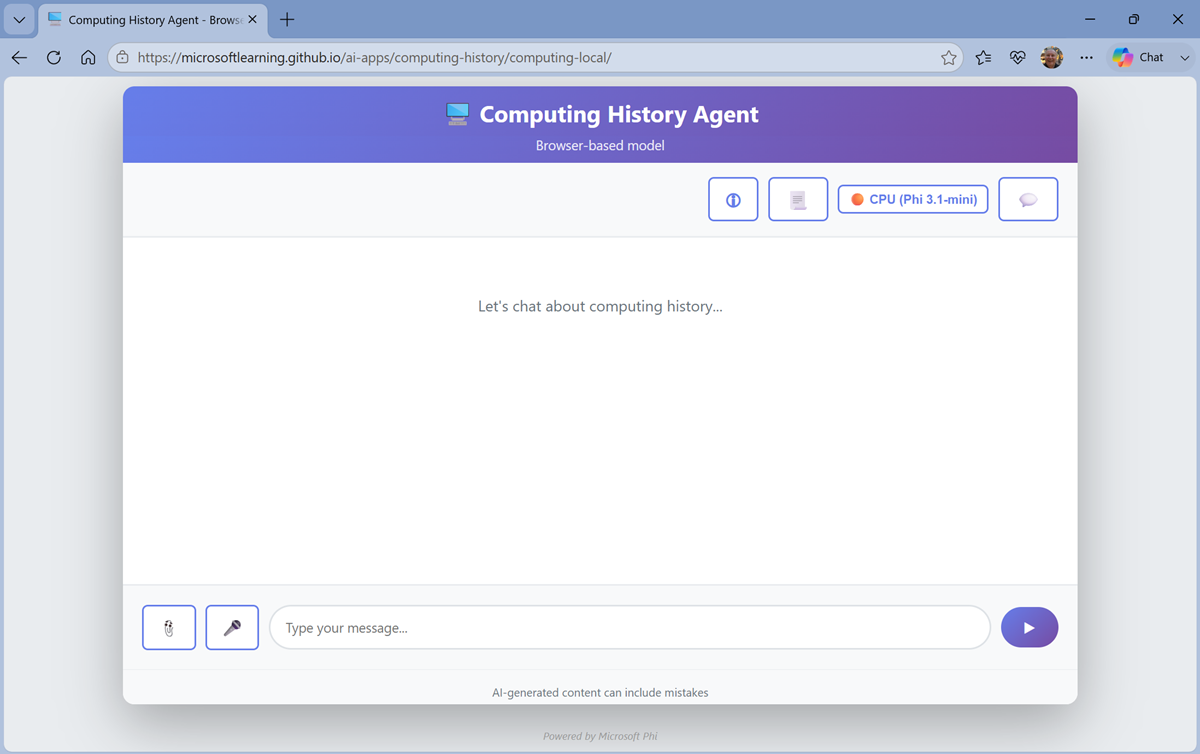
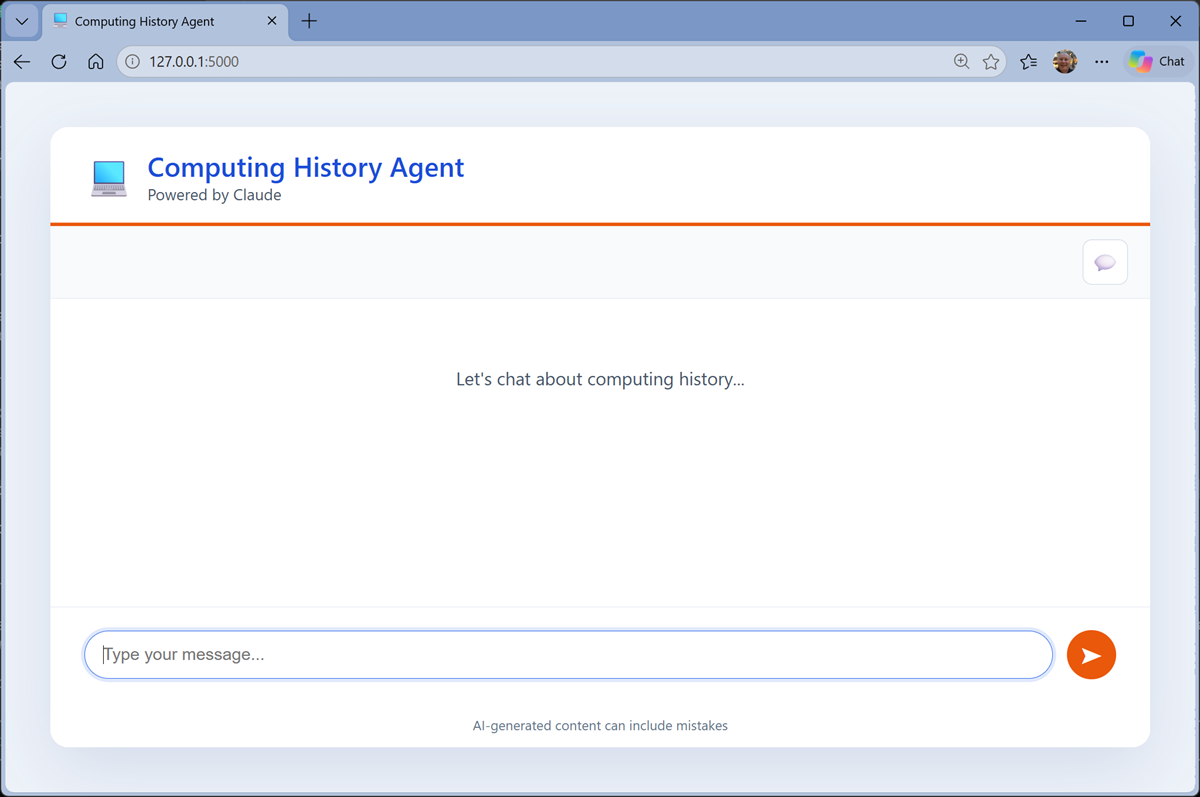
Updates

Changed region(s): [[0.0, 0.0, 1.0, 1.0], [0.37, 0.4576, 0.6167, 0.4881], [0.4008, 0.3966, 0.5858, 0.4271]]

diff --git a/Instructions/02-create-managed-claude-agent.md b/Instructions/02-create-managed-claude-agent.md
@@ -33,53 +33,56 @@ When you build an agent with the Messages API, your code owns the agent loop, th
 ## Create a managed agent in the Claude Console
 
 1. In a web browser, open the [Claude Console](https://platform.claude.com){:target="_blank"} at `https://platform.claude.com`, and sign in. If prompted, complete any setup steps - including adding credits to your account.
-1. In the navigation menu, find the **Managed Agents** page (look under **Build** if you can't see it).
-
-    > **Tip**: If you can't access Managed Agents, check whether it's available for your organization. It may need to be enabled by an organization admin.
 
 ### Create the agent
 
-1. On the **Managed Agents** page, create a new agent. If you're offered a choice of templates, choose to start from a blank agent (or describe your agent to the guided setup, if you prefer, and then review the settings it generates against the steps below).
-1. Set the agent's name to `computing-historian`.
-1. Select the model **Claude Haiku 5.5** (`claude-haiku-5-5`).
-1. In the **System prompt** (instructions) box, enter the following:
+1. In the navigation menu, in the **Agents** section, open the **Create** page.
+
+    A list of agent templates is shown
+
+1. Under the list of templates, select **start from a blank agent**, and enter the following description for the agent:
+
+    ```
+    A computing history agent that helps users with questions about key people, events, and technologies in the history of computing.
+    ```
+
+1. Review the agent configuration that is created, and then go ahead and create the agent.
+1. Create a new environment for tha agent, with unrestricted web search.
+1. Start a test session and test the agent with a suitable question, such as `Who was Grace Hopper, and why was her work on compilers so important??`.
+1. Stop the test session and specify that you want to call the agent from an application. The  exit the agent creation wizard. Your completed agent is opened in its own page.
+
+### Configure the agent
+
+1. In the page for your agent, select the model **Claude Haiku 5.5** (`claude-haiku-5-5`) and review the **System prompt**, modifying it if desired. As a minimum, it should provide guidance to the agent similar to this:
 
    ```
    You are an expert in the history of computing and AI. You only answer questions about significant people and events in the development of computing, and about notable vintage computers. Do not engage in conversations on any topic that is unrelated to computing history.
    ```
 
-1. In the agent's tools configuration, enable the **Web search** tool, and disable the other built-in tools (such as bash, file read/write/edit, and web fetch) - your agent only needs to search the web.
-1. Set the permission policy for the web search tool to **Always allow**, so the agent can use it without waiting for human approval.
+1. In the agent's tools configuration, set the **web_fetch** and **web_search** tool permissions to **Always allow**, and set the **Always deny** permission for all the other built-in tools (such as bash, file read/write/edit, and web fetch) - your agent only needs to search and retrieve information from the web.
 
     > **Note**: The agent toolset includes *server-hosted* tools such as bash and file operations that run in the session's container. You've turned off the ones this agent doesn't need - it's good practice to give an agent only the tools it needs.
 
-1. Save (create) the agent. Note the **agent ID** (it looks like `agent_...`) shown on the agent's page - you'll need it later.
+1. Save a new version of the agent with your changes.
+1. Start a new session in the environment that was created for by the wizard, and test the updated agent with a suitable prompt (such as `Tell me about Alan Turing.`).
 
-### Create an environment
+    > **Tip**: The session transcript shows every event in the session - including each tool call and its result, along with token usage. It's a useful way to see what the agent did and why.
 
-1. In the Console, find the **Environments** page (it's usually in the same area as Managed Agents) and create a new environment named `computing-historian-env`.
-1. Select **Cloud** as the environment type. For networking, select **Unrestricted** so that the agent's web search can reach the sites it needs.
+### View agents and environments
+
+1. View the **Agents** page, where your agent (and any others you've created) is listed. Note the **agent ID** (it looks like `agent_...`). You'll need this later.
+1. View the **Environments** page and find the cloud environment created for your agent.
 
     > **Note**: Unrestricted networking is fine for this learning exercise because the agent has no access to sensitive files or secrets. For a production agent, use *limited* networking and list only the hosts the agent needs.
 
-1. Save (create) the environment, and note its **environment ID** (it looks like `env_...`).
-
-### Test the agent in the Console
-
-1. Use the Console's option to start a **test session** with your agent and environment (for example, **Start session** on the agent's page).
-1. Enter the prompt `What was ENIAC?` and review the response.
-1. Follow up with `How does it compare with COLOSSUS?` - note that the session remembers the conversation, without you sending the history.
-1. Enter an off-topic prompt, like `What's the capital of Spain?`, to verify that the agent follows its instructions.
-1. Enter `Find a vintage computer store near Seattle` (*or your local city!*), and review the response. Expand the agent's activity in the session view to see that it used the web search tool.
-
-    > **Tip**: The session transcript shows every event in the session - including each tool call and its result, along with token usage. It's a useful way to see what the agent did and why.
+1. Note the **environment ID** (it looks like `env_...`). You'll also need this later.
 
 ### Create an API key
 
 To call your agent from code, you need an API key.
 
-1. In the Claude Console, in the navigation menu, open **API keys** (under **Settings**).
-1. Create a new key named `computing-historian-client`, and copy its value. Store it somewhere safe temporarily - you won't be able to view it again after you close the dialog.
+1. In the Claude Console, in the navigation menu, return to the top-level **Dashboard** page and select **Get API key**.
+1. Create a new key named `computing-historian-agent-client`, and copy its value. Store it somewhere safe temporarily - you won't be able to view it again after you close the dialog.
 
 ## Create a client app for the agent
 
@@ -230,20 +233,20 @@ Now you're ready to test the app.
 
 ### View the sessions in the Console
 
-1. Return to the Claude Console and view the sessions for your agent.
+1. Return to the Claude Console and in the **Agents** section, on the **Sessions** page, view the sessions for your agent.
 1. Open the sessions created by your client app, and review the transcript of events - including the user messages, agent responses, and web search tool calls.
 
 ### Update the agent
 
 Because the agent is defined in the platform, you can change its behavior without changing your client code.
 
-1. In the Console, edit the `computing-historian` agent and add the following sentence to the end of the system prompt:
+1. In the Console, in the **Agents** section, on the **Agents** page, open your computing historian agent and add the following sentence to the end of the system prompt:
 
    ```
    Always end your answers with a fun fact related to the topic.
    ```
 
-1. Save the changes. Note that the agent now has a new *version*.
+1. Save the changesto create a new version of the agent.
 1. In Visual Studio Code, re-run the app (`python app.py`), open it in the browser, and ask `Who invented the transistor?`
 
     The new session uses the latest version of the agent, so the response should include a fun fact - and you didn't change a line of client code.

diff --git a/Instructions/01-create-first-claude-agent.md b/Instructions/01-create-first-claude-agent.md
@@ -27,9 +27,13 @@ The Claude Console (part of the Claude Platform) is a web portal in which you ca
 
 1. In a web browser, open the [Claude Console](https://platform.claude.com){:target="_blank"} at `https://platform.claude.com`, and sign in (or create an account). If prompted, create an organization and complete any setup steps - including adding credits to your account.
 
-1. In the navigation menu, open the **playground** (also known as the *Prompt Console*) and ensure the **Form** tabe is selected.
+    ![Screenshot of the Claude console dashboard.](./media/claude-dashboard.png)
 
-    > **Tip**: If you can't find the playground, look in the navigation menu under **Build**.
+1. In the navigation menu, in the **Messages** category, open the **Playground** and ensure the **Form** tab is selected.
+
+    > **Tip**: If you can't find the playground, look in the navigation menu under **Messages**.
+
+    ![Screenshot of the Claude message API playground.](./media/claude-playground.png)
 
 ### Chat with the model
 
@@ -37,6 +41,9 @@ At the heart of every AI agent, there's a large language model (LLM). In the pla
 
 1. In the playground, select the model **Claude Haiku 5.5** (`claude-haiku-5-5`) in the model settings.
 1. In the **User** message box, enter a prompt such as `Who was Ada Lovelace?`, and run it. Review the response.
+
+    ![Screenshot of the Claude playground with a response.](./media/claude-playground-response.png)
+
 1. Add a follow-up prompt, such as `Tell me more about her work with Charles Babbage.` and review the response.
 
     The Messages API is *stateless*, so chat applications send the whole conversation history with each request. That's how the context of the conversation is retained - in this case, "her" is interpreted as referring to Ada Lovelace.
@@ -54,7 +61,10 @@ To support specific use cases, you should use a *system prompt* to provide the m
    You are an expert in the history of computing and AI. You only answer questions about significant people and events in the development of computing, and about notable vintage computers. Do not engage in conversations on any topic that is unrelated to computing history.
    ```
 
-1. Enter a user prompt related to computing history, such as `What was Alan Turing's contribution to the development of AI?`, and review the response.
+    ![Screenshot of the Claude playground with a system prompt.](./media/claude-playground-system-prompt.png)
+
+1. Enter a user prompt related to computing history, such as `Tell me about the ALTAIR 8800 and its significance in the history of computing?`, and review the response.
+
 1. Try asking an "off-topic" question, such as `What's the capital of Spain?`, and view the response.
 
 ### Add a web search tool
@@ -65,24 +75,31 @@ A model generally answers questions based on the data with which it was trained.
 
     > **Note**: Web search must be enabled for your organization. If you're unable to use it, an organization admin can enable it in the Claude Console settings.
 
-1. Enter the prompt `Find a vintage computer store near Seattle` (*or your local city!*) and review the response.
+1. Enter the prompt `Find a vintage computer museum near Seattle` (*or your local city!*) and review the response.
 
-    The model should have searched the web for vintage computer stores near the specific city, and included references to the sources it used.
+    The model should have searched the web for vintage computer museaums near the specific city, and included references to the sources it used.
+
+    ![Screenshot of the Claude playground with the web search tool enabled.](./media/claude-playground-search-tool.png)
 
 ### View the code for your agent
 
 You've now defined the main elements of your agent: a *model*, *instructions*, and a *tool*. Next you'll implement them in code.
 
-1. In the playground, switch to the **Code** tab to view the Python code that's equivalent to your configuration. Note how it includes the model, the system prompt, and the web search tool definition. You'll write something very similar in the next section.
+1. In the playground, switch to the **Code** tab to view the **Python** code that's equivalent to your configuration. Note how it includes the model, the system prompt, and the web search tool definition. You'll write something very similar in the next section.
 
     > **Tip**: playground settings aren't an agent that gets deployed anywhere. They're a prototype - you're responsible for the code that runs the agent, using the Messages API.
+
+    ![Screenshot of the Claude playground code tab.](./media/claude-playground-code.png)
 
 ### Create an API key
 
 To call Claude from code, you need an API key.
 
-1. In the Claude Console, in the navigation menu, open **API keys** (under **Settings**).
-1. Create a new key named `computing-historian`, and copy its value. Store it somewhere safe temporarily - you won't be able to view it again after you close the dialog.
+1. In the Claude Console, in the navigation menu, return to the top-level **Dashboard** page and select **Get API key**.
+
+    ![Screenshot of the Get API key dialog.](./media/claude-api-key.png)
+
+1. Create a new key named `computing-historian-agent`, and copy its value. Store it somewhere safe temporarily - you won't be able to view it again after you close the dialog.
 
 ## Implement the agent with the Claude SDK
 
@@ -100,6 +117,8 @@ A partially completed client application for your agent has been provided. You'l
 1. After the clone operation is complete, open the folder when prompted.
 
     The folder may open in **Restricted mode**. If so, select the mode and trust the authors to allow full functionality.
+
+    ![Screenshot of Visual Studio Code.](./media/vscode.png)
 
 1. In the Activity bar on the left edge, view the **Extensions** pane; and if it is not already installed, search for and install the **Python** extension.
 1. In the **Command Palette**, use the command `python:select interpreter` to create a new **Venv** environment based on your Python 3.1x installation.
